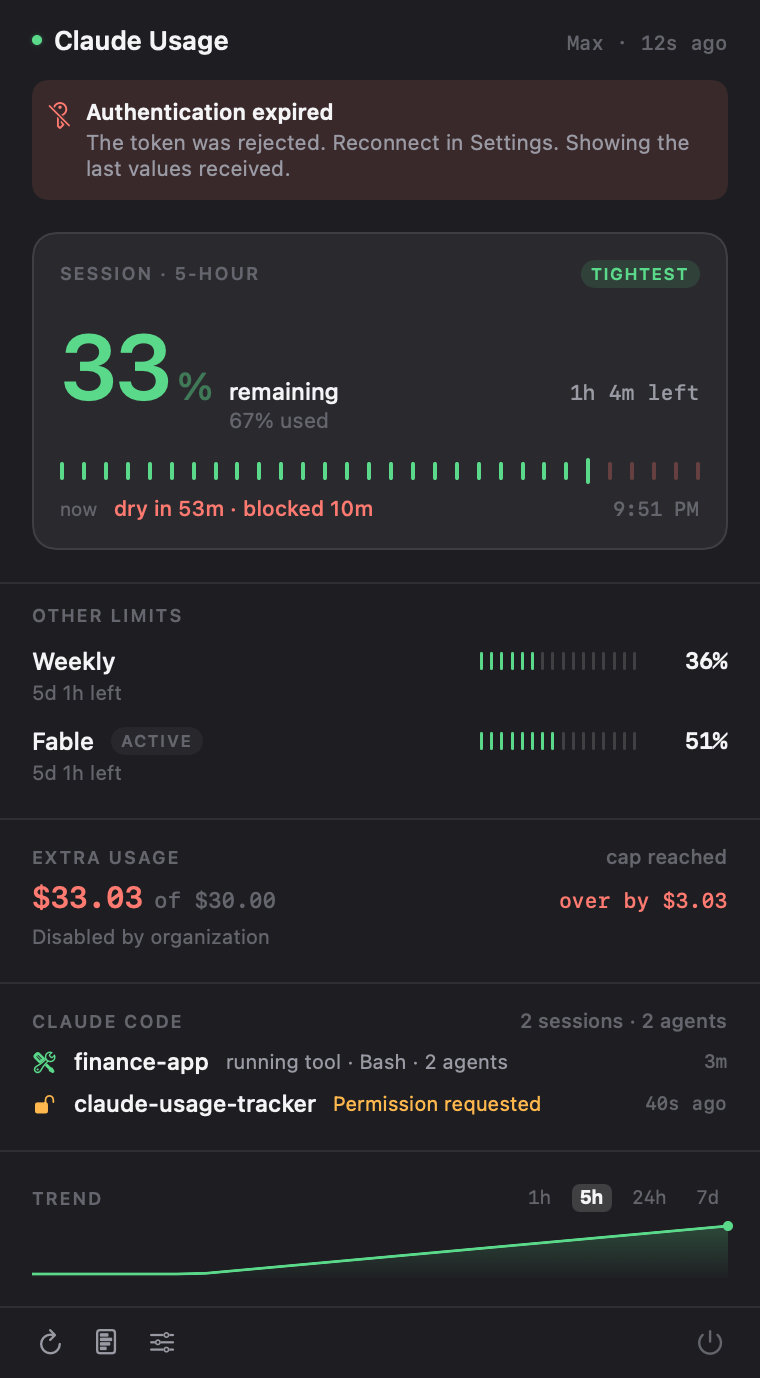
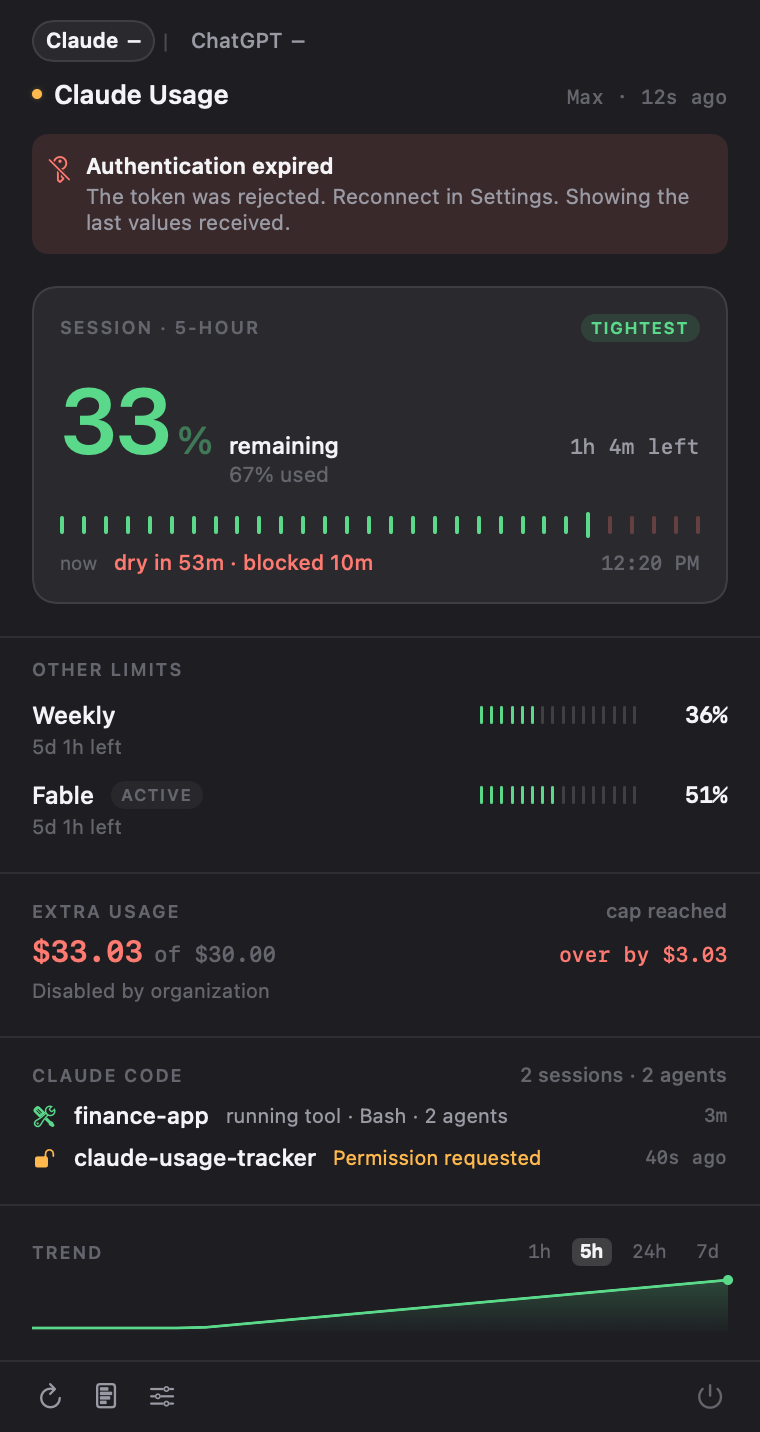
Show ChatGPT in the README screenshots
The prose already described the provider switcher and the Codex/agentic
allowance, but every image was Claude-only, so the ChatGPT half of the app
was invisible to anyone reading the README.

Adds a second row covering the states worth seeing: both providers with the
header switcher, a session close to its line, and Codex present but not
signed in. Swaps the Settings row's General shot for the new Providers pane,
which is the one that actually changed.

Regenerated all 32 from the current build, so the six ChatGPT scenarios
already in PreviewRenderer are now committed rather than only renderable.
Verified every path referenced by the README resolves to a file.

diff --git a/README.md b/README.md
@@ -11,17 +11,27 @@ Two clients, one data model:
 | **Native macOS menu bar app** | SwiftUI `MenuBarExtra`, Claude plus ChatGPT Codex/agentic usage, notifications, local history, and Claude Code activity. The main event. |
 | **Web dashboard** | React + Vite. Claude gauges, charts, and CSV export. ChatGPT support is native-only in this release. |
 
+**Claude**
+
 | Plenty left | Running out | Weekly is the constraint |
 |---|---|---|
 | ![](docs/screenshots/healthy-dark.png) | ![](docs/screenshots/critical-dark.png) | ![](docs/screenshots/weekly-bottleneck-light.png) |
 
+**ChatGPT** — the header switches providers, and each carries its own limits, credits and trend.
+The percentage beside each name is that provider's tightest limit, so you can read both without
+switching.
+
+| Both providers | Session close to the line | Codex not connected |
+|---|---|---|
+| ![](docs/screenshots/both-providers-dark.png) | ![](docs/screenshots/chatgpt-session-close-dark.png) | ![](docs/screenshots/chatgpt-disconnected-light.png) |
+
 Settings is a sidebar window in the same language:
 
-| | |
+| Providers | Privacy |
 |---|---|
-| ![](docs/screenshots/settings-general-dark.png) | ![](docs/screenshots/settings-privacy-light.png) |
+| ![](docs/screenshots/settings-providers-dark.png) | ![](docs/screenshots/settings-privacy-light.png) |
 
-These are generated, not hand-captured — `ClaudeUsage --render-preview <dir>` renders every
+All 32 are generated, not hand-captured — `ClaudeUsage --render-preview <dir>` renders every
 scenario and settings pane in both appearances from fixture data, so they never drift from the
 real UI. (AppKit controls photograph as placeholders offscreen; they are real in the window.)
 
